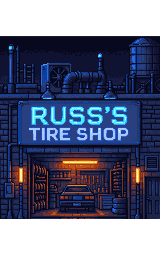
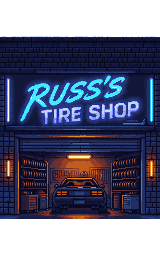
fix(tire_shop): strip baked rooftop clutter from front_bay + right
Chief caught it live in the Builder: front_bay still had pipes, a fan
unit, ladder, exhaust stack, and water tank baked onto the roof;
right had a small chimney cap. Root cause for front_bay: the original
generation prompt literally asked for 'rooftop pipes, vents and a
water tank' - predates the rooftop-empty rule added to
docs/BUILDING_FAMILY_ASSET_SPEC.md section 2 this session.

Regenerated both panels (not a post-process crop - clutter removal
doesn't patch cleanly) from the same already-correct recolored
style_image sources, prompt rewritten to explicitly demand a bare
rooftop. Re-applied the same color-grade desaturation pass after.
left/wall_bay checked clean (skyline backdrop + street lamp only, no
mounted equipment) - not touched.

right.png's bbox shifted slightly on the fresh regenerate - trim
updated in ASSET_MANIFEST.json. front_bay's bbox landed identical,
no trim change there.

Tests: 2164/92/48, matches baseline, no regressions.

diff --git a/assets/objects/night-city-buildings/tire_shop/README.md b/assets/objects/night-city-buildings/tire_shop/README.md
@@ -104,3 +104,27 @@ inside warehouse's own H 226-236 / S 0.53-0.71 / V 0.21-0.34 range. Brick
 material, layout, signage, and the warm garage-interior glow are all unchanged —
 only the base wall's saturation came down to match warehouse's steel-blue
 register. bbox/trim values unaffected (grading doesn't change alpha).
+
+## Rooftop-clutter fix (2026-10-03, third pass)
+
+Chief caught it directly in the Builder: `front_bay.png` still had pipes, a
+fan/vent unit, a ladder, an exhaust stack, and a water tank baked onto the
+roof, and `right.png` had a small chimney cap. Root cause for front_bay: the
+original generation prompt *explicitly asked* for "rooftop pipes, vents and a
+water tank along the top edge" — a leftover from before the rooftop-empty
+rule in `docs/BUILDING_FAMILY_ASSET_SPEC.md` section 2 existed. `right.png`'s
+chimney was never requested but PixelLab added it anyway.
+
+Fix: regenerated both panels (not a post-process edit this time — rooftop
+clutter removal doesn't crop/patch cleanly) from the same already-correct
+style_image sources, with the prompt rewritten to explicitly state "rooftop is
+completely bare and empty, no pipes/vents/tank/antennas/chimney/mechanical
+equipment of any kind." Re-applied the same color-grade desaturation pass
+afterward. `left.png` and `wall_bay.png` were checked and are clean (skyline
+backdrop and a street lamp only — no mounted equipment) and were not touched.
+
+`right.png`'s content bbox shifted slightly on the regenerate (now
+`(0,0,124,256)` vs the old `(5,0,123,256)`) since this was a fresh generation,
+not a recolor — `ASSET_MANIFEST.json`'s trim was updated accordingly.
+`front_bay.png`'s bbox landed identical to before, no trim change needed
+there.
